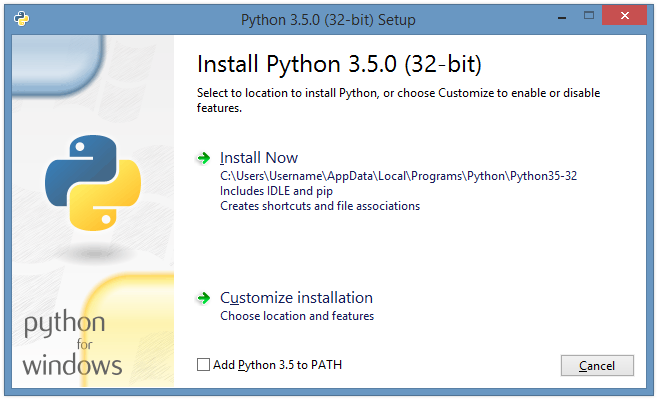
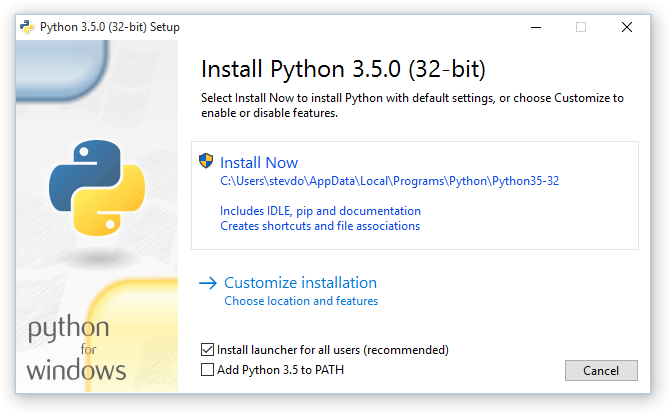
Adds option to install launcher for all users even when installing Python just-for-me. This helps mitigate issues when the incompatible Python 3.4 launcher is installed. Enables installer builds with the the text marker. Allows simple installs to include a custom description.
--HG--
branch : 3.5

diff --git a/Tools/msi/bundle/bootstrap/PythonBootstrapperApplication.cpp b/Tools/msi/bundle/bootstrap/PythonBootstrapperApplication.cpp
@@ -87,11 +87,13 @@ enum CONTROL_ID {
     ID_INSTALL_UPGRADE_BUTTON,
     ID_INSTALL_UPGRADE_CUSTOM_BUTTON,
     ID_INSTALL_CANCEL_BUTTON,
-    
+    ID_INSTALL_LAUNCHER_ALL_USERS_CHECKBOX,
+
     // Customize Page
     ID_TARGETDIR_EDITBOX,
     ID_CUSTOM_ASSOCIATE_FILES_CHECKBOX,
     ID_CUSTOM_INSTALL_ALL_USERS_CHECKBOX,
+    ID_CUSTOM_INSTALL_LAUNCHER_ALL_USERS_CHECKBOX,
     ID_CUSTOM_COMPILE_ALL_CHECKBOX,
     ID_CUSTOM_BROWSE_BUTTON,
     ID_CUSTOM_BROWSE_BUTTON_LABEL,
@@ -150,10 +152,12 @@ static THEME_ASSIGN_CONTROL_ID CONTROL_ID_NAMES[] = {
     { ID_INSTALL_UPGRADE_BUTTON, L"InstallUpgradeButton" },
     { ID_INSTALL_UPGRADE_CUSTOM_BUTTON, L"InstallUpgradeCustomButton" },
     { ID_INSTALL_CANCEL_BUTTON, L"InstallCancelButton" },
+    { ID_INSTALL_LAUNCHER_ALL_USERS_CHECKBOX, L"InstallLauncherAllUsers" },
 
     { ID_TARGETDIR_EDITBOX, L"TargetDir" },
     { ID_CUSTOM_ASSOCIATE_FILES_CHECKBOX, L"AssociateFiles" },
     { ID_CUSTOM_INSTALL_ALL_USERS_CHECKBOX, L"InstallAllUsers" },
+    { ID_CUSTOM_INSTALL_LAUNCHER_ALL_USERS_CHECKBOX, L"CustomInstallLauncherAllUsers" },
     { ID_CUSTOM_COMPILE_ALL_CHECKBOX, L"CompileAll" },
     { ID_CUSTOM_BROWSE_BUTTON, L"CustomBrowseButton" },
     { ID_CUSTOM_BROWSE_BUTTON_LABEL, L"CustomBrowseButtonLabel" },
@@ -261,10 +265,11 @@ class PythonBootstrapperApplication : public CBalBaseBootstrapperApplication {
         LPWSTR defaultDir = nullptr;
         LPWSTR targetDir = nullptr;
         LONGLONG elevated, crtInstalled, installAllUsers;
-        BOOL checked;
+        BOOL checked, launcherChecked;
         WCHAR wzPath[MAX_PATH] = { };
         BROWSEINFOW browseInfo = { };
         PIDLIST_ABSOLUTE pidl = nullptr;
+        DWORD pageId;
         HRESULT hr = S_OK;
 
         switch(id) {
@@ -278,7 +283,7 @@ class PythonBootstrapperApplication : public CBalBaseBootstrapperApplication {
         case ID_INSTALL_BUTTON:
             SavePageSettings();
 
-            if (!QueryElevateForCrtInstall()) {
+            if (!WillElevate() && !QueryElevateForCrtInstall()) {
                 break;
             }
 
@@ -344,18 +349,32 @@ class PythonBootstrapperApplication : public CBalBaseBootstrapperApplication {
                 ReleaseStr(targetDir);
             }
 
-            checked = ThemeIsControlChecked(_theme, ID_CUSTOM_INSTALL_ALL_USERS_CHECKBOX);
-            if (!checked && !QueryElevateForCrtInstall()) {
+            if (!WillElevate() && !QueryElevateForCrtInstall()) {
                 break;
             }
 
             OnPlan(_command.action);
             break;
 
+        case ID_INSTALL_LAUNCHER_ALL_USERS_CHECKBOX:
+            checked = ThemeIsControlChecked(_theme, ID_INSTALL_LAUNCHER_ALL_USERS_CHECKBOX);
+            _engine->SetVariableNumeric(L"InstallLauncherAllUsers", checked);
+
+            ThemeControlElevates(_theme, ID_INSTALL_BUTTON, WillElevate());
+            break;
+
+        case ID_CUSTOM_INSTALL_LAUNCHER_ALL_USERS_CHECKBOX:
+            checked = ThemeIsControlChecked(_theme, ID_CUSTOM_INSTALL_LAUNCHER_ALL_USERS_CHECKBOX);
+            _engine->SetVariableNumeric(L"InstallLauncherAllUsers", checked);
+
+            ThemeControlElevates(_theme, ID_CUSTOM_INSTALL_BUTTON, WillElevate());
+            break;
+
         case ID_CUSTOM_INSTALL_ALL_USERS_CHECKBOX:
-            hr = BalGetNumericVariable(L"WixBundleElevated", &elevated);
             checked = ThemeIsControlChecked(_theme, ID_CUSTOM_INSTALL_ALL_USERS_CHECKBOX);
-            ThemeControlElevates(_theme, ID_CUSTOM_INSTALL_BUTTON, checked && (FAILED(hr) || !elevated));
+            _engine->SetVariableNumeric(L"InstallAllUsers", checked);
+
+            ThemeControlElevates(_theme, ID_CUSTOM_INSTALL_BUTTON, WillElevate());
             ThemeControlEnable(_theme, ID_CUSTOM_BROWSE_BUTTON_LABEL, !checked);
             if (checked) {
                 _engine->SetVariableNumeric(L"CompileAll", 1);
@@ -416,6 +435,7 @@ class PythonBootstrapperApplication : public CBalBaseBootstrapperApplication {
         case ID_MODIFY_BUTTON:
             // Some variables cannot be modified
             _engine->SetVariableString(L"InstallAllUsersState", L"disable");
+            _engine->SetVariableString(L"InstallLauncherAllUsersState", L"disable");
             _engine->SetVariableString(L"TargetDirState", L"disable");
             _engine->SetVariableString(L"CustomBrowseButtonState", L"disable");
             _modifying = TRUE;
@@ -437,35 +457,36 @@ class PythonBootstrapperApplication : public CBalBaseBootstrapperApplication {
 
     void InstallPage_Show() {
         // Ensure the All Users install button has a UAC shield
-        LONGLONG elevated, installAll;
-
-        if (FAILED(BalGetNumericVariable(L"WixBundleElevated", &elevated))) {
-            elevated = 0;
-        }
-
-
-        if (SUCCEEDED(BalGetNumericVariable(L"InstallAllUsers", &installAll)) && installAll && !elevated) {
-            ThemeControlElevates(_theme, ID_INSTALL_BUTTON, TRUE);
-            ThemeControlElevates(_theme, ID_INSTALL_SIMPLE_BUTTON, TRUE);
-            ThemeControlElevates(_theme, ID_INSTALL_UPGRADE_BUTTON, TRUE);
-        }
+        BOOL elevated = WillElevate();
+        ThemeControlElevates(_theme, ID_INSTALL_BUTTON, elevated);
+        ThemeControlElevates(_theme, ID_INSTALL_SIMPLE_BUTTON, elevated);
+        ThemeControlElevates(_theme, ID_INSTALL_UPGRADE_BUTTON, elevated);
     }
 
     void Custom1Page_Show() {
+        LONGLONG installLauncherAllUsers;
+
+        if (FAILED(BalGetNumericVariable(L"InstallLauncherAllUsers", &installLauncherAllUsers))) {
+            installLauncherAllUsers = 0;
+        }
+
+        ThemeSendControlMessage(_theme, ID_CUSTOM_INSTALL_LAUNCHER_ALL_USERS_CHECKBOX, BM_SETCHECK,
+            installLauncherAllUsers ? BST_CHECKED : BST_UNCHECKED, 0);
     }
 
     void Custom2Page_Show() {
         HRESULT hr;
-        LONGLONG installAll, elevated, includeLauncher;
+        LONGLONG installAll, includeLauncher;
         
-        if (FAILED(BalGetNumericVariable(L"WixBundleElevated", &elevated))) {
-            elevated = 0;
+        if (FAILED(BalGetNumericVariable(L"InstallAllUsers", &installAll))) {
+            installAll = 0;
         }
-        if (SUCCEEDED(BalGetNumericVariable(L"InstallAllUsers", &installAll))) {
-            ThemeControlElevates(_theme, ID_CUSTOM_INSTALL_BUTTON, installAll && !elevated);
+
+        if (WillElevate()) {
+            ThemeControlElevates(_theme, ID_CUSTOM_INSTALL_BUTTON, TRUE);
             ThemeShowControl(_theme, ID_CUSTOM_BROWSE_BUTTON_LABEL, SW_HIDE);
         } else {
-            installAll = 0;
+            ThemeControlElevates(_theme, ID_CUSTOM_INSTALL_BUTTON, FALSE);
             ThemeShowControl(_theme, ID_CUSTOM_BROWSE_BUTTON_LABEL, SW_SHOW);
         }
 
@@ -1839,8 +1860,8 @@ private:
             COLORREF fg = fnt->crForeground, bg = fnt->crBackground;
             *brush = fnt->hBackground;
             RemapColor(&fg, &bg, brush);
-            SetTextColor(hDC, fg);
-            SetBkColor(hDC, bg);
+            ::SetTextColor(hDC, fg);
+            ::SetBkColor(hDC, bg);
 
             return TRUE;
         }
@@ -2080,6 +2101,7 @@ private:
 
         for (DWORD i = 0; i < pPage->cControlIndices; ++i) {
             THEME_CONTROL* pControl = _theme->rgControls + pPage->rgdwControlIndices[i];
+            BOOL enableControl = TRUE;
 
             // If this is a named control, try to set its default state.
             if (pControl->sczName && *pControl->sczName) {
@@ -2091,7 +2113,7 @@ private:
 
                     // If the control value isn't set then disable it.
                     if (!SUCCEEDED(hr)) {
-                        ThemeControlEnable(_theme, pControl->wId, FALSE);
+                        enableControl = FALSE;
                     } else {
                         ThemeSendControlMessage(
                             _theme,
@@ -2110,19 +2132,33 @@ private:
                     LPWSTR controlState = nullptr;
                     hr = BalGetStringVariable(controlName, &controlState);
                     if (SUCCEEDED(hr) && controlState && *controlState) {
+                        if (controlState[0] == '[') {
+                            LPWSTR formatted = nullptr;
+                            if (SUCCEEDED(BalFormatString(controlState, &formatted))) {
+                                StrFree(controlState);
+                                controlState = formatted;
+                            }
+                        }
+
                         if (CSTR_EQUAL == ::CompareStringW(LOCALE_NEUTRAL, 0, controlState, -1, L"disable", -1)) {
                             BalLog(BOOTSTRAPPER_LOG_LEVEL_STANDARD, "Disable control %ls", pControl->sczName);
-                            ThemeControlEnable(_theme, pControl->wId, FALSE);
+                            enableControl = FALSE;
                         } else if (CSTR_EQUAL == ::CompareStringW(LOCALE_NEUTRAL, 0, controlState, -1, L"hide", -1)) {
                             BalLog(BOOTSTRAPPER_LOG_LEVEL_STANDARD, "Hide control %ls", pControl->sczName);
                             // TODO: This doesn't work
                             ThemeShowControl(_theme, pControl->wId, SW_HIDE);
+                        } else {
+                            // An explicit state can override the lack of a
+                            // backing variable.
+                            enableControl = TRUE;
                         }
                     }
                     StrFree(controlState);
                 }
                 StrFree(controlName);
             }
+
+            ThemeControlEnable(_theme, pControl->wId, enableControl);
 
             // Format the text in each of the new page's controls
             if (pControl->sczText && *pControl->sczText) {
@@ -2403,6 +2439,16 @@ private:
                 break;
             }
         }
+    }
+
+    BOOL WillElevate() {
+        static BAL_CONDITION WILL_ELEVATE_CONDITION = {
+            L"not WixBundleElevated and (InstallAllUsers or (InstallLauncherAllUsers and Include_launcher))",
+            L""
+        };
+        BOOL result;
+
+        return SUCCEEDED(BalConditionEvaluate(&WILL_ELEVATE_CONDITION, _engine, &result, nullptr)) && result;
     }
 
     BOOL IsCrtInstalled() {

diff --git a/Doc/using/windows.rst b/Doc/using/windows.rst
@@ -130,6 +130,9 @@ of available options is shown below.
 +---------------------------+--------------------------------------+--------------------------+
 | Include_launcher          | Install :ref:`launcher`.             | 1                        |
 +---------------------------+--------------------------------------+--------------------------+
+| InstallLauncherAllUsers   | Installs :ref:`launcher` for all     | 1                        |
+|                           | users.                               |                          |
++---------------------------+--------------------------------------+--------------------------+
 | Include_lib               | Install standard library and         | 1                        |
 |                           | extension modules                    |                          |
 +---------------------------+--------------------------------------+--------------------------+
@@ -145,6 +148,9 @@ of available options is shown below.
 +---------------------------+--------------------------------------+--------------------------+
 | SimpleInstall             | Disable most install UI              | 0                        |
 +---------------------------+--------------------------------------+--------------------------+
+| SimpleInstallDescription  | A custom message to display when the | (empty)                  |
+|                           | simplified install UI is used.       |                          |
++---------------------------+--------------------------------------+--------------------------+
 
 For example, to silently install a default, system-wide Python installation,
 you could use the following command (from an elevated command prompt)::
@@ -152,9 +158,11 @@ you could use the following command (from an elevated command prompt)::
     python-3.5.0.exe /quiet InstallAllUsers=1 PrependPath=1 Include_test=0
 
 To allow users to easily install a personal copy of Python without the test
-suite, you could provide a shortcut with the following command::
+suite, you could provide a shortcut with the following command. This will
+display a simplified initial page and disallow customization::
 
-    python-3.5.0.exe /passive InstallAllUsers=0 Include_launcher=0 Include_test=0 SimpleInstall=1
+    python-3.5.0.exe InstallAllUsers=0 Include_launcher=0 Include_test=0
+        SimpleInstall=1 SimpleInstallDescription="Just for me, no test suite."
 
 (Note that omitting the launcher also omits file associations, and is only
 recommended for per-user installs when there is also a system-wide installation
